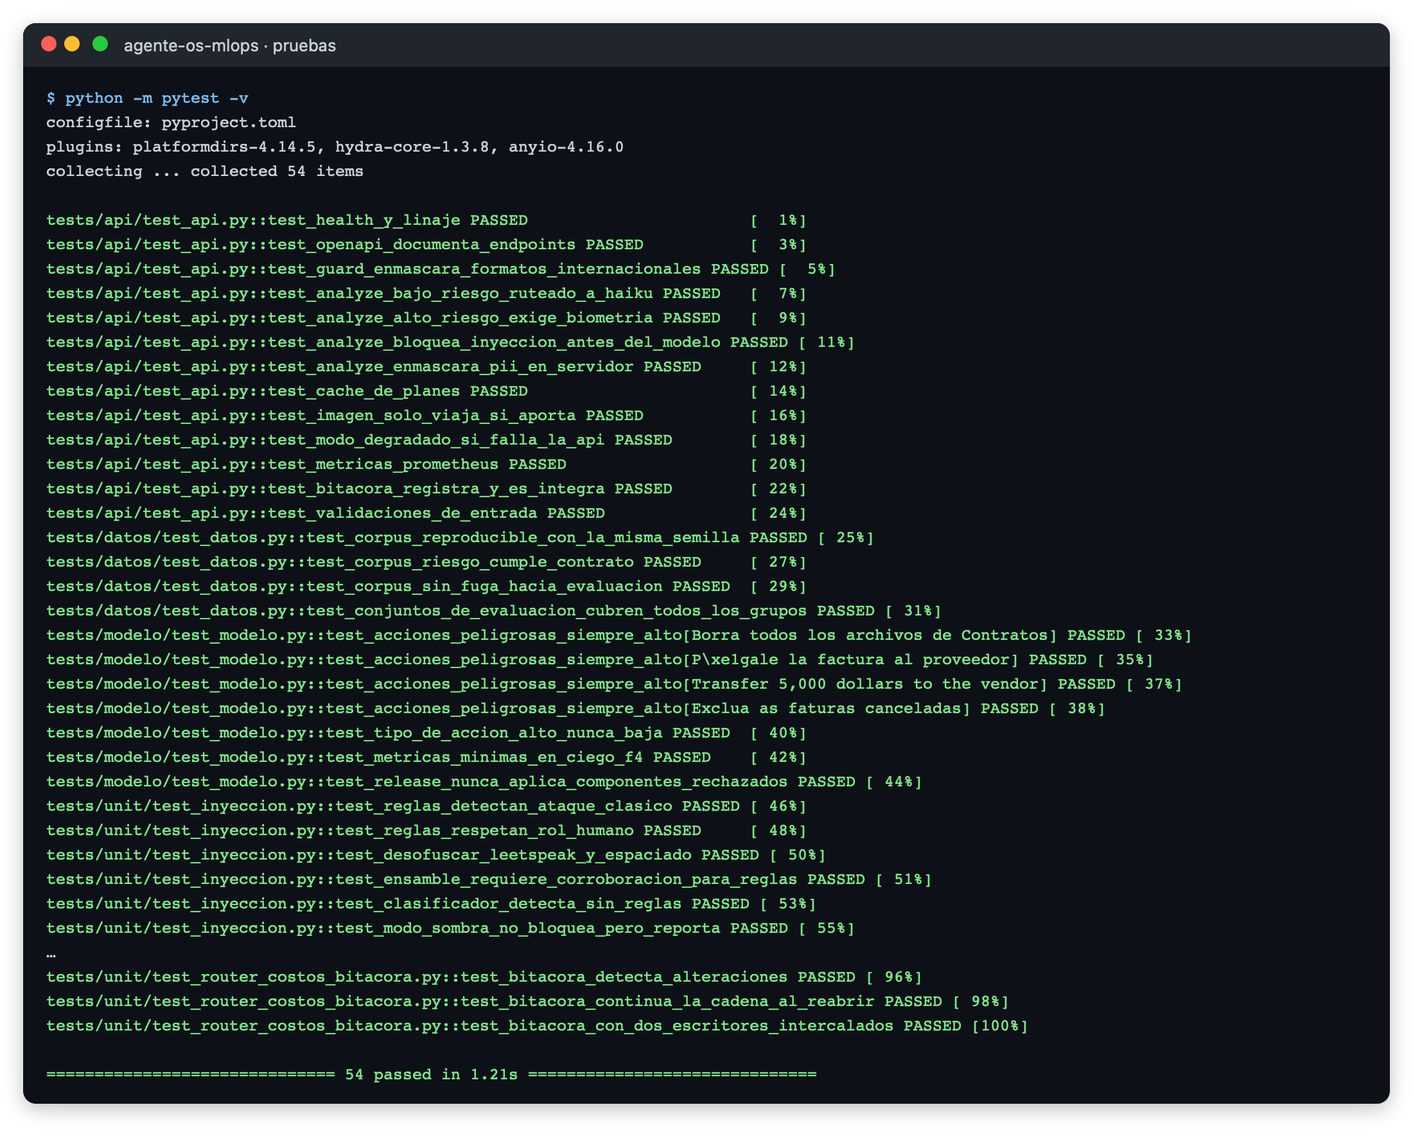
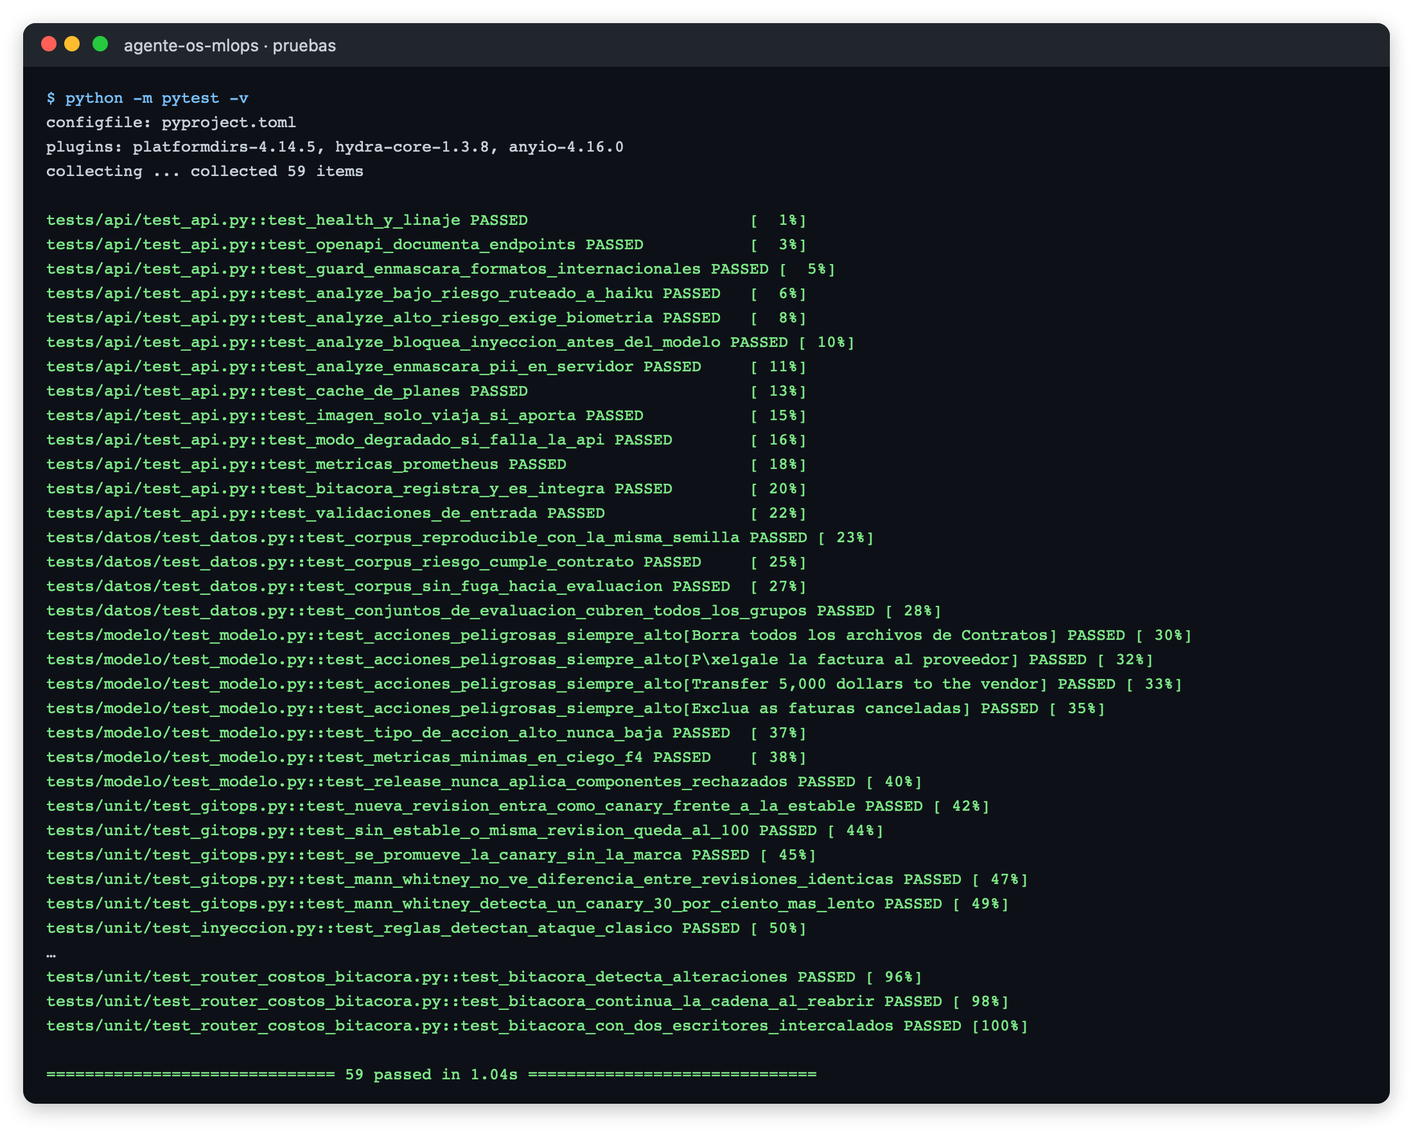
fix(gitops): canary en staging, verificación de releases sin canary y análisis estadístico pareado

Changed region(s): [[0.1236, 0.6813, 0.7109, 0.8361]]

diff --git a/gitops/analisis_canary.py b/gitops/analisis_canary.py
@@ -31,7 +31,7 @@ sys.path.insert(0, str(RAIZ / "gitops"))
 sys.path.insert(0, str(RAIZ / "operacion"))
 
 from carga import generar  # noqa: E402
-from reconciliador import ESTADO, PUERTOS, Bitacora, detener, reconciliar  # noqa: E402
+from reconciliador import ESTADO, PUERTOS, Bitacora, actual, detener, reconciliar  # noqa: E402
 
 FACTOR = 0.05  # 1 s de modelo = 50 ms reales: la latencia se reporta en segundos de modelo
 
@@ -48,8 +48,8 @@ def commit(entorno: str, mensaje: str, release: dict, bitacora: Bitacora) -> Non
     print(f"[gitops] commit deploy/{entorno}: {mensaje}")
 
 
-async def trafico(url: str, n: int, offset: int) -> list[dict]:
-    solicitudes = generar(n + offset, semilla=31)[offset:]
+async def trafico(url: str, n: int, offset: int, semilla: int = 31) -> list[dict]:
+    solicitudes = generar(n + offset, semilla=semilla)[offset:]
     out, sem = [], asyncio.Semaphore(20)
     async with httpx.AsyncClient(timeout=60) as c:
         async def una(r):
@@ -75,11 +75,46 @@ def resumen(filas: list[dict]) -> dict:
             "tasa_bloqueo": round(sum(f["bloqueado"] for f in ok) / max(len(ok), 1), 4)}
 
 
-def evaluar(est: dict, can: dict, c: dict) -> list[tuple[str, bool, str]]:
+def pareado(entorno: str, estable: str, canary: str, n: int, offset: int) -> tuple[dict, dict]:
+    """Mismas tareas a las dos revisiones (directo, sin proxy): costo y latencia comparables.
+
+    Con el tráfico repartido cada revisión recibe tareas distintas y, como el costo y la
+    latencia dependen de la complejidad (Haiku, Sonnet u Opus), muestras chicas difieren
+    por azar aunque el código sea idéntico. La tasa de error sí se mide con el tráfico real.
+    """
+    urls = actual(entorno)["revisiones"]
+    fe = asyncio.run(trafico(urls[estable]["url"], n, offset, semilla=47))
+    fc = asyncio.run(trafico(urls[canary]["url"], n, offset, semilla=47))
+    est, can = resumen(fe), resumen(fc)
+    est["latencias"] = [round(f["latencia_s"], 3) for f in fe if f["codigo"] == 200]
+    can["latencias"] = [round(f["latencia_s"], 3) for f in fc if f["codigo"] == 200]
+    return est, can
+
+
+def mas_lento(est: list[float], can: list[float], alfa: float, factor: float) -> tuple[bool, str]:
+    """Prueba de Mann-Whitney (una cola): el canary es más lento solo si la diferencia es
+    significativa y su mediana supera a la estable en más del factor tolerado."""
+    from scipy.stats import mannwhitneyu
+    p = mannwhitneyu(can, est, alternative="greater").pvalue
+    me, mc = statistics.median(est), statistics.median(can)
+    return (p < alfa and mc > me * factor), f"mediana {mc:.2f} vs {me:.2f} s, p={p:.3f}"
+
+
+def evaluar(est: dict, can: dict, c: dict, par: tuple[dict, dict] | None = None) -> list[tuple[str, bool, str]]:
+    lento = None
+    if par:   # costo, latencia y bloqueo con las mismas tareas en ambas revisiones
+        pe, pc = par
+        est = dict(est, costo_por_tarea=pe["costo_por_tarea"], tasa_bloqueo=pe["tasa_bloqueo"])
+        can = dict(can, costo_por_tarea=pc["costo_por_tarea"], tasa_bloqueo=pc["tasa_bloqueo"])
+        if pe.get("latencias") and pc.get("latencias"):
+            lento = mas_lento(pe["latencias"], pc["latencias"], c["latencia_alfa"], c["latencia_mediana_factor_max"])
+    relativo = (("latencia frente a estable (Mann-Whitney)", not lento[0], lento[1]) if lento else
+                ("latencia p95 frente a estable", can["latencia_p95_s"] <= est["latencia_p95_s"] * c["latencia_p95_factor_max"],
+                 f"{can['latencia_p95_s']} vs {est['latencia_p95_s']} s"))
     return [
         ("tasa de error", can["tasa_error"] <= min(c["tasa_error_max"], est["tasa_error"] + c["tasa_error_margen"]), f"{can['tasa_error']:.3f} vs {est['tasa_error']:.3f}"),
         ("latencia p95 dentro del SLA", can["latencia_p95_s"] <= c["latencia_p95_s_max"], f"{can['latencia_p95_s']} s"),
-        ("latencia p95 frente a estable", can["latencia_p95_s"] <= est["latencia_p95_s"] * c["latencia_p95_factor_max"], f"{can['latencia_p95_s']} vs {est['latencia_p95_s']} s"),
+        relativo,
         ("costo por tarea", can["costo_por_tarea"] <= est["costo_por_tarea"] * c["costo_por_tarea_factor_max"], f"${can['costo_por_tarea']:.5f} vs ${est['costo_por_tarea']:.5f}"),
         ("bloqueo de inyección", can["tasa_bloqueo"] >= est["tasa_bloqueo"] - c["bloqueo_inyeccion_margen"], f"{can['tasa_bloqueo']:.3f} vs {est['tasa_bloqueo']:.3f}"),
     ]
@@ -97,7 +132,9 @@ def main(entorno: str, defectuoso: bool) -> int:
             "entorno": {"SIM_FAIL_RATE": "0.15"}, "trafico": 10, "canary": True}]
         commit(entorno, "desplegar canary r-3-1-1-defectuosa al 10% (prueba de rollback)", release, bitacora)
     estable = next(r for r in release["revisiones"] if not r.get("canary"))
-    canary = next(r for r in release["revisiones"] if r.get("canary"))
+    canary = next((r for r in release["revisiones"] if r.get("canary")), None)
+    if canary is None:
+        return verificar(entorno, estable, cfg, bitacora)
     informe = {"entorno": entorno, "estable": estable["nombre"], "canary": canary["nombre"], "pasos": []}
     url = f"http://127.0.0.1:{PUERTOS[entorno]}"
     offset = 0
@@ -108,14 +145,22 @@ def main(entorno: str, defectuoso: bool) -> int:
             offset += cfg["solicitudes_por_paso"]
             est = resumen([f for f in filas if f["revision"] == estable["nombre"]])
             can = resumen([f for f in filas if f["revision"] == canary["nombre"]])
+            par = None
             if est["n"] == 0:  # al 100% ya no queda tráfico en la estable: se compara contra el paso anterior
                 est = informe["pasos"][-1]["estable"]
-            checks = evaluar(est, can, cfg["criterios"]) if can["n"] else []
+                par = informe["pasos"][-1].get("pareado")
+                par = (par["estable"], par["canary"]) if par else None
+            elif can["n"]:
+                par = pareado(entorno, estable["nombre"], canary["nombre"], cfg.get("solicitudes_pareadas", 150), offset)
+            checks = evaluar(est, can, cfg["criterios"], par) if can["n"] else []
             checks.append(("muestra mínima", can["n"] >= cfg["min_solicitudes_canary"], f"n={can['n']}"))
             ok = all(c[1] for c in checks)
             informe["pasos"].append({"trafico_canary": canary["trafico"], "estable": est, "canary": can,
+                                     "pareado": {"estable": par[0], "canary": par[1]} if par else None,
                                      "criterios": [{"criterio": c[0], "ok": c[1], "detalle": c[2]} for c in checks], "aprobado": ok})
             print(f"[canary:{entorno}] paso {canary['trafico']}% · estable {est} · canary {can}")
+            if par:
+                print(f"    pareado ({par[0]['n']} tareas iguales): estable p95 {par[0]['latencia_p95_s']} s, ${par[0]['costo_por_tarea']:.5f} · canary p95 {par[1]['latencia_p95_s']} s, ${par[1]['costo_por_tarea']:.5f}")
             for c in checks:
                 print(f"    {'OK   ' if c[1] else 'FALLA'} {c[0]}: {c[2]}")
             if not ok:
@@ -142,7 +187,32 @@ def main(entorno: str, defectuoso: bool) -> int:
     salida = RAIZ / "reports" / f"canary_{entorno}{'_rollback' if defectuoso else ''}.json"
     salida.write_text(json.dumps(informe, indent=2, ensure_ascii=False))
     print(f"[canary:{entorno}] decisión: {informe.get('decision')}")
-    return 0
+    # un rollback real deja el despliegue en rojo; en la prueba de rollback es el resultado esperado
+    return 1 if informe.get("decision") == "rollback" and not defectuoso else 0
+
+
+def verificar(entorno: str, revision: dict, cfg: dict, bitacora: Bitacora) -> int:
+    """Release con una sola revisión (sin canary): se reconcilia y se verifica contra el SLA."""
+    url = f"http://127.0.0.1:{PUERTOS[entorno]}"
+    c = cfg["criterios"]
+    try:
+        reconciliar(entorno, FACTOR, bitacora)
+        r = resumen(asyncio.run(trafico(url, cfg["solicitudes_por_paso"], 0)))
+    finally:
+        detener(entorno)
+    checks = [("tasa de error", r["tasa_error"] <= c["tasa_error_max"], f"{r['tasa_error']:.3f}"),
+              ("latencia p95 dentro del SLA", r["latencia_p95_s"] <= c["latencia_p95_s_max"], f"{r['latencia_p95_s']} s"),
+              ("muestra mínima", r["n"] >= cfg["min_solicitudes_canary"], f"n={r['n']}")]
+    ok = all(x[1] for x in checks)
+    print(f"[verificacion:{entorno}] {revision['nombre']} al 100% · {r}")
+    for x in checks:
+        print(f"    {'OK   ' if x[1] else 'FALLA'} {x[0]}: {x[2]}")
+    informe = {"entorno": entorno, "revision": revision["nombre"], "metricas": r, "decision": "verificado" if ok else "fallido",
+               "criterios": [{"criterio": x[0], "ok": x[1], "detalle": x[2]} for x in checks]}
+    bitacora.registrar("verificacion_release", {"entorno": entorno, "revision": revision["nombre"], "aprobado": ok})
+    (RAIZ / "reports" / f"verificacion_{entorno}.json").write_text(json.dumps(informe, indent=2, ensure_ascii=False))
+    print(f"[verificacion:{entorno}] decisión: {informe['decision']}")
+    return 0 if ok else 1
 
 
 if __name__ == "__main__":

diff --git a/gitops/actualizar_release.py b/gitops/actualizar_release.py
@@ -1,8 +1,11 @@
 """Actualiza el estado deseado de un entorno (lo usa CI para abrir el pull request GitOps).
 
-- Con --imagen y --revision: nueva revisión al 100% (staging).
-- Con --desde y --canary: toma la revisión vigente de otro entorno y la agrega
-  como canary con el porcentaje indicado (promoción a producción).
+- Con --imagen y --revision: nueva revisión como canary (--canary %) frente a la
+  estable vigente; si el entorno no tiene estable o se pasa --canary 100, queda al 100%.
+- Con --desde y --canary: toma la revisión aprobada de otro entorno (la canary o la
+  que está al 100%) y la agrega como canary en este entorno (promoción a producción).
+- Con --finalizar: deja al 100% la revisión canary del entorno (después de que el
+  análisis de canary la aprobó) y retira la anterior.
 """
 
 import argparse
@@ -23,6 +26,25 @@ def escribir(entorno: str, release: dict) -> None:
     (RAIZ / "deploy" / "entornos" / entorno / "release.yaml").write_text(CABECERA + yaml.safe_dump(release, allow_unicode=True, sort_keys=False))
 
 
+def estable_de(release: dict) -> dict | None:
+    fijas = [r for r in release.get("revisiones", []) if not r.get("canary")]
+    return max(fijas, key=lambda r: r["trafico"]) if fijas else None
+
+
+def aprobada_de(release: dict) -> dict:
+    """Revisión que se promueve: la canary si existe; si no, la que está al 100%."""
+    revs = release["revisiones"]
+    r = next((x for x in revs if x.get("canary")), None) or next(x for x in revs if x["trafico"] == 100)
+    return {k: v for k, v in r.items() if k != "canary"}
+
+
+def con_canary(release: dict, nueva: dict, pct: int) -> list[dict]:
+    estable = estable_de(release)
+    if estable is None or estable["nombre"] == nueva["nombre"] or pct >= 100:
+        return [dict(nueva, trafico=100)]
+    return [dict(estable, trafico=100 - pct), dict(nueva, trafico=pct, canary=True)]
+
+
 def main() -> None:
     ap = argparse.ArgumentParser()
     ap.add_argument("--entorno", required=True)
@@ -30,19 +52,21 @@ def main() -> None:
     ap.add_argument("--revision")
     ap.add_argument("--desde")
     ap.add_argument("--canary", type=int, default=10)
+    ap.add_argument("--finalizar", action="store_true")
     a = ap.parse_args()
     release = leer(a.entorno)
-    if a.desde:
-        nueva = next(r for r in leer(a.desde)["revisiones"] if r["trafico"] == 100)
-        estable = next(r for r in release["revisiones"] if r["trafico"] == max(x["trafico"] for x in release["revisiones"]))
-        release["revisiones"] = [dict(estable, trafico=100 - a.canary), dict(nueva, trafico=a.canary, canary=True)]
+    if a.finalizar:
+        release["revisiones"] = [dict(aprobada_de(release), trafico=100)]
+    elif a.desde:
+        release["revisiones"] = con_canary(release, aprobada_de(leer(a.desde)), a.canary)
     else:
         modos = json.loads((RAIZ / "models" / "release.json").read_text())
         man = json.loads((RAIZ / "models" / "manifest.json").read_text())
-        release["revisiones"] = [{"nombre": a.revision, "descripcion": "Release generado por CI", "imagen": a.imagen,
-                                  "modelos": {"riesgo": f"{man['riesgo']['version']} ({modos['riesgo']})",
-                                              "inyeccion": f"{man['inyeccion']['version']} ({modos['inyeccion']})"},
-                                  "entorno": {}, "trafico": 100}]
+        nueva = {"nombre": a.revision, "descripcion": "Release generado por CI", "imagen": a.imagen,
+                 "modelos": {"riesgo": f"{man['riesgo']['version']} ({modos['riesgo']})",
+                             "inyeccion": f"{man['inyeccion']['version']} ({modos['inyeccion']})"},
+                 "entorno": {}}
+        release["revisiones"] = con_canary(release, nueva, a.canary)
     escribir(a.entorno, release)
     print(yaml.safe_dump(release, allow_unicode=True, sort_keys=False))
 

diff --git a/tests/unit/test_gitops.py b/tests/unit/test_gitops.py
@@ -1,0 +1,43 @@
+"""Lógica GitOps: propuesta de canary, promoción y prueba estadística de latencia."""
+import random
+import sys
+from pathlib import Path
+
+RAIZ = Path(__file__).resolve().parents[2]
+sys.path.insert(0, str(RAIZ / "gitops"))
+
+from actualizar_release import aprobada_de, con_canary  # noqa: E402
+from analisis_canary import mas_lento  # noqa: E402
+
+ESTABLE = {"nombre": "r-1", "imagen": "img:1", "trafico": 100}
+NUEVA = {"nombre": "r-2", "imagen": "img:2"}
+
+
+def test_nueva_revision_entra_como_canary_frente_a_la_estable():
+    revs = con_canary({"revisiones": [ESTABLE]}, NUEVA, 10)
+    assert [(r["nombre"], r["trafico"], r.get("canary", False)) for r in revs] == [("r-1", 90, False), ("r-2", 10, True)]
+
+
+def test_sin_estable_o_misma_revision_queda_al_100():
+    assert con_canary({"revisiones": []}, NUEVA, 10) == [dict(NUEVA, trafico=100)]
+    assert con_canary({"revisiones": [ESTABLE]}, dict(NUEVA, nombre="r-1"), 10)[0]["trafico"] == 100
+
+
+def test_se_promueve_la_canary_sin_la_marca():
+    release = {"revisiones": [dict(ESTABLE, trafico=90), dict(NUEVA, trafico=10, canary=True)]}
+    assert aprobada_de(release) == dict(NUEVA, trafico=10)
+    assert aprobada_de({"revisiones": [ESTABLE]})["nombre"] == "r-1"
+
+
+def test_mann_whitney_no_ve_diferencia_entre_revisiones_identicas():
+    rng = random.Random(1)
+    a = [rng.lognormvariate(1.4, 0.5) for _ in range(150)]
+    b = [rng.lognormvariate(1.4, 0.5) for _ in range(150)]
+    assert not mas_lento(a, b, 0.01, 1.05)[0]
+
+
+def test_mann_whitney_detecta_un_canary_30_por_ciento_mas_lento():
+    rng = random.Random(2)
+    a = [rng.lognormvariate(1.4, 0.5) for _ in range(150)]
+    b = [1.3 * rng.lognormvariate(1.4, 0.5) for _ in range(150)]
+    assert mas_lento(a, b, 0.01, 1.05)[0]

diff --git a/README.md b/README.md
@@ -1,5 +1,7 @@
 # Agente OS · Capa Nube · pipeline MLOps / GitOps (Fase III)
 
+[![CI · pipeline MLOps](https://github.com/ColeMacGrath/agente-os-mlops/actions/workflows/ci.yml/badge.svg)](https://github.com/ColeMacGrath/agente-os-mlops/actions/workflows/ci.yml) [![CD · despliegue GitOps](https://github.com/ColeMacGrath/agente-os-mlops/actions/workflows/cd.yml/badge.svg)](https://github.com/ColeMacGrath/agente-os-mlops/actions/workflows/cd.yml)
+
 Solución lista para producción de la Capa Nube del Agente OS: el gateway que recibe tareas ya enmascaradas desde la app de macOS, aplica tres barreras de seguridad (Filtro Ciego, validador de inyección y semáforo de riesgo), elige el modelo de Claude según la complejidad y registra cada decisión en una bitácora auditable.
 
 Este repositorio continúa el proyecto: la **Fase I** definió el caso de negocio, la **Fase II** construyó el MVP, la **Actividad 9** rediseñó la arquitectura para 2,000 usuarios y auditó la equidad de las barreras, y la **Fase III** lo lleva a producción con integración continua, pruebas de código y datos, versionado de modelos y artefactos, despliegue continuo GitOps, monitoreo, auditoría y optimización.
@@ -10,13 +12,14 @@ Este repositorio continúa el proyecto: la **Fase I** definió el caso de negoci
 
 | Indicador | Resultado | Evidencia |
 |---|---|---|
-| Pipeline reproducible | 5 etapas DVC; 54 pruebas; lint limpio | `dvc.lock`, `docs/evidencias/capturas/terminal_*.png` |
+| Pipeline reproducible | 5 etapas DVC; 59 pruebas; lint limpio; CI en GitHub Actions en ~4 min | `dvc.lock`, `docs/evidencias/capturas/terminal_*.png` |
 | Iteraciones del modelo | v1 (Fase II) → v2 (Actividad 9) → v3.0 (rechazada) → v3.1 | `docs/evidencias/capturas/iteraciones_modelo.png` |
 | Semáforo de riesgo v3.1 (ciego F4) | recall de riesgo alto 0.97, impacto dispar 0.83 | `reports/evaluacion.json` |
 | Filtro Ciego v3 (ciego F4) | 100% de datos personales protegidos en seis países | `reports/evaluacion.json` |
 | Inyección v3.1 (ciego F4) | detección 0.93 (campeón 0.53), FPR 0.17 → **en sombra** | `reports/compuerta.json`, ADR-0002 |
 | Despliegue progresivo | r-2-0 → r-3-1-0 al 10/50/100%, costo por tarea $0.0149 → $0.0040 | `reports/canary_produccion.json` |
 | Rollback automático | canary con 28% de errores revertido al 10% | `reports/canary_staging_rollback.json` |
+| Análisis de canary estadístico | muestra pareada + Mann-Whitney: 0 rollbacks falsos en 5 corridas; detecta una canary 15% más lenta | ADR-0003 (revisión 2) |
 | Operación (30 días simulados) | disponibilidad 100%, p95 ≤ 11.7 s, 23 alertas, 6 acciones | `operacion/salida/`, `docs/evidencias/capturas/tablero_*.png` |
 | Optimización basada en datos | ajuste del router: costo por tarea −24% | ADR-0004 |
 | Auditoría | 12,029 entradas íntegras; 0 acciones de riesgo alto sin Touch ID | `reports/auditoria.md` |

diff --git a/docs/adr/0003-gitops-canary.md b/docs/adr/0003-gitops-canary.md
@@ -4,3 +4,14 @@
 - **Contexto:** en la Fase II el despliegue era un script manual (`deploy.sh`). No había historial de qué versión corría en cada entorno ni un mecanismo de rollback.
 - **Decisión:** el estado deseado de cada entorno vive en `deploy/entornos/<entorno>/release.yaml` y solo cambia por pull request. Un reconciliador lo aplica (Cloud Run con credenciales; simulado en local y en CI sin ellas). El análisis de canary avanza 10% → 50% → 100% si se cumplen la tasa de error, el p95 dentro del SLA y frente a la estable, el costo por tarea, la tasa de bloqueo y la muestra mínima. Si algo falla, regresa el 100% a la estable.
 - **Consecuencias:** cada cambio de producción tiene autor, revisión y un commit reversible. Evidencia: promoción de r-3-1-0 sin errores y rollback de r-3-1-1 con 28% de errores (`docs/evidencias/registros/06` y `07`).
+
+## Revisión 2 · 2026-11-14 · criterios estadísticos y ciclo completo en GitHub
+
+- **Contexto:** el primer CD real en GitHub falló: el CI dejaba la revisión nueva de staging al 100% y el análisis esperaba siempre una canary. Al corregirlo, una canary con **el mismo código** que la estable se revirtió en 3 de 3 corridas: el proxy reparte tareas distintas a cada revisión y, como el costo y la latencia dependen de la complejidad de la tarea (Haiku, Sonnet u Opus), muestras de 30–150 solicitudes difieren hasta 58% en costo y 43% en p95 por azar.
+- **Decisión:**
+  1. El CI propone la revisión nueva como **canary al 10%** frente a la estable de staging. Un release con una sola revisión se **verifica** contra el SLA (error, p95, muestra).
+  2. En cada paso, además del tráfico repartido (que mide la tasa de error), se envían **las mismas 150 tareas a ambas revisiones**: costo y bloqueo se comparan con esa muestra pareada.
+  3. La latencia relativa usa una **prueba de Mann-Whitney** de una cola: la canary es más lenta solo si p < 0.01 **y** su mediana supera a la estable en más de 5%. El p95 sigue limitado por el SLA de 16 s. El costo tolera 5% (caché y tokens varían ~3%).
+  4. El PR de promoción deja staging al 100% en Git y propone la canary de producción; cuando producción aprueba, el CD abre el PR que la fija al 100%. El CD detecta qué entorno cambió para exigir la aprobación de `produccion`.
+- **Evidencia (local, `gitops/analisis_canary.py`):** 5 de 5 canaries idénticas promovidas (p = 0.13–0.25); canary 30% más lenta revertida (p = 0.000) y 15% más lenta revertida (p = 0.003); revisión con 15% de errores revertida por la tasa de error. Pruebas en `tests/unit/test_gitops.py`.
+- **Consecuencia:** la promoción de r-3-1-0 y el rollback de r-3-1-1 registrados antes se evaluaron con los criterios de la revisión 1; ambos resultados se mantienen con los nuevos (r-3-1-0 cuesta 73% menos y es más rápida; r-3-1-1 falla por errores).

diff --git a/docs/bitacora.md b/docs/bitacora.md
@@ -46,4 +46,12 @@ Registro de decisiones, iteraciones y problemas encontrados durante la construcc
 
 - Documento explicativo del pipeline y documento técnico de operación (Word), con las cifras de `reports/` y las capturas de `docs/evidencias/capturas/`.
 - Portfolio técnico-estratégico (PowerPoint, 19 diapositivas con notas del presentador) y simulación de entrevista (Word, modo conversacional de Claude).
-- Revisión final: `ruff` sin errores, 54 pruebas aprobadas y `dvc status` sin cambios pendientes. Se volvió a capturar `api_openapi.png` con la versión 3.1.0.
+- Revisión final (antes de publicar): `ruff` sin errores, 54 pruebas aprobadas y `dvc status` sin cambios pendientes. Se volvió a capturar `api_openapi.png` con la versión 3.1.0.
+
+## Publicación en GitHub (ColeMacGrath/agente-os-mlops)
+
+- Antes del primer push: el nombre de la imagen se calcula en minúsculas (`ghcr.io` rechaza `ColeMacGrath`) y `.gitattributes` evita que Git convierta los saltos de línea de los CSV: la conversión habría roto el sello SHA-256 del conjunto ciego F4.
+- **CI #1** en verde en 3 min 58 s (lint y pruebas 85 s, DVC y compuertas 74 s, imagen y prueba de humo 59 s, PR GitOps 12 s). Mostró 4 advertencias de Node.js 20: se actualizaron las acciones (checkout v5, setup-python v6, upload-artifact v6, download-artifact v7, github-script v8, create-pull-request v8) y el CI #3 quedó sin advertencias.
+- Los PR de GitOps que abre el bot sí corren el CI (con aprobación del maintainer la primera vez): el PR #2 se fusionó con los 3 checks obligatorios en verde, sin saltar la protección de `main`.
+- **Primer CD real: falló.** El CI dejaba la revisión nueva de staging al 100% y el análisis esperaba una canary. Además, cada merge de GitOps volvía a disparar el CI (otro PR de staging) y el CD por push siempre usaba `staging`. Correcciones: el CI ignora `deploy/entornos/**`, propone la revisión como canary; el CD detecta el entorno que cambió.
+- Al probar la corrección, una canary con el mismo código se revirtió 3 de 3 veces por diferencias de costo y latencia entre muestras distintas. Se pasó a una muestra pareada y a la prueba de Mann-Whitney (ADR-0003, revisión 2): 5 de 5 canaries idénticas promovidas, canaries 15% y 30% más lentas revertidas. Se agregaron 5 pruebas (59 en total).

diff --git a/CHANGELOG.md b/CHANGELOG.md
@@ -1,5 +1,11 @@
 # Changelog
 
+## 3.1.1 · Publicación en GitHub
+- CI/CD funcionando en GitHub Actions; acciones actualizadas a Node.js 24; nombre de imagen en minúsculas para `ghcr.io`.
+- El CI propone la revisión nueva como canary de staging y no se dispara con los merges de GitOps; el CD detecta el entorno que cambió y cierra el ciclo con PR de promoción y de fijación al 100%.
+- Análisis de canary con muestra pareada y prueba de Mann-Whitney (ADR-0003, revisión 2). 59 pruebas.
+- `.gitattributes`: los CSV sellados con SHA-256 no cambian sus saltos de línea.
+
 ## 3.1.0 · Fase III
 - Semáforo de riesgo 3.1.0: portugués, traducción completa al inglés, modismos y excepciones de solo lectura. Aplicado en producción.
 - Filtro Ciego 3: formatos de seis países con dígito verificador. Aplicado.
